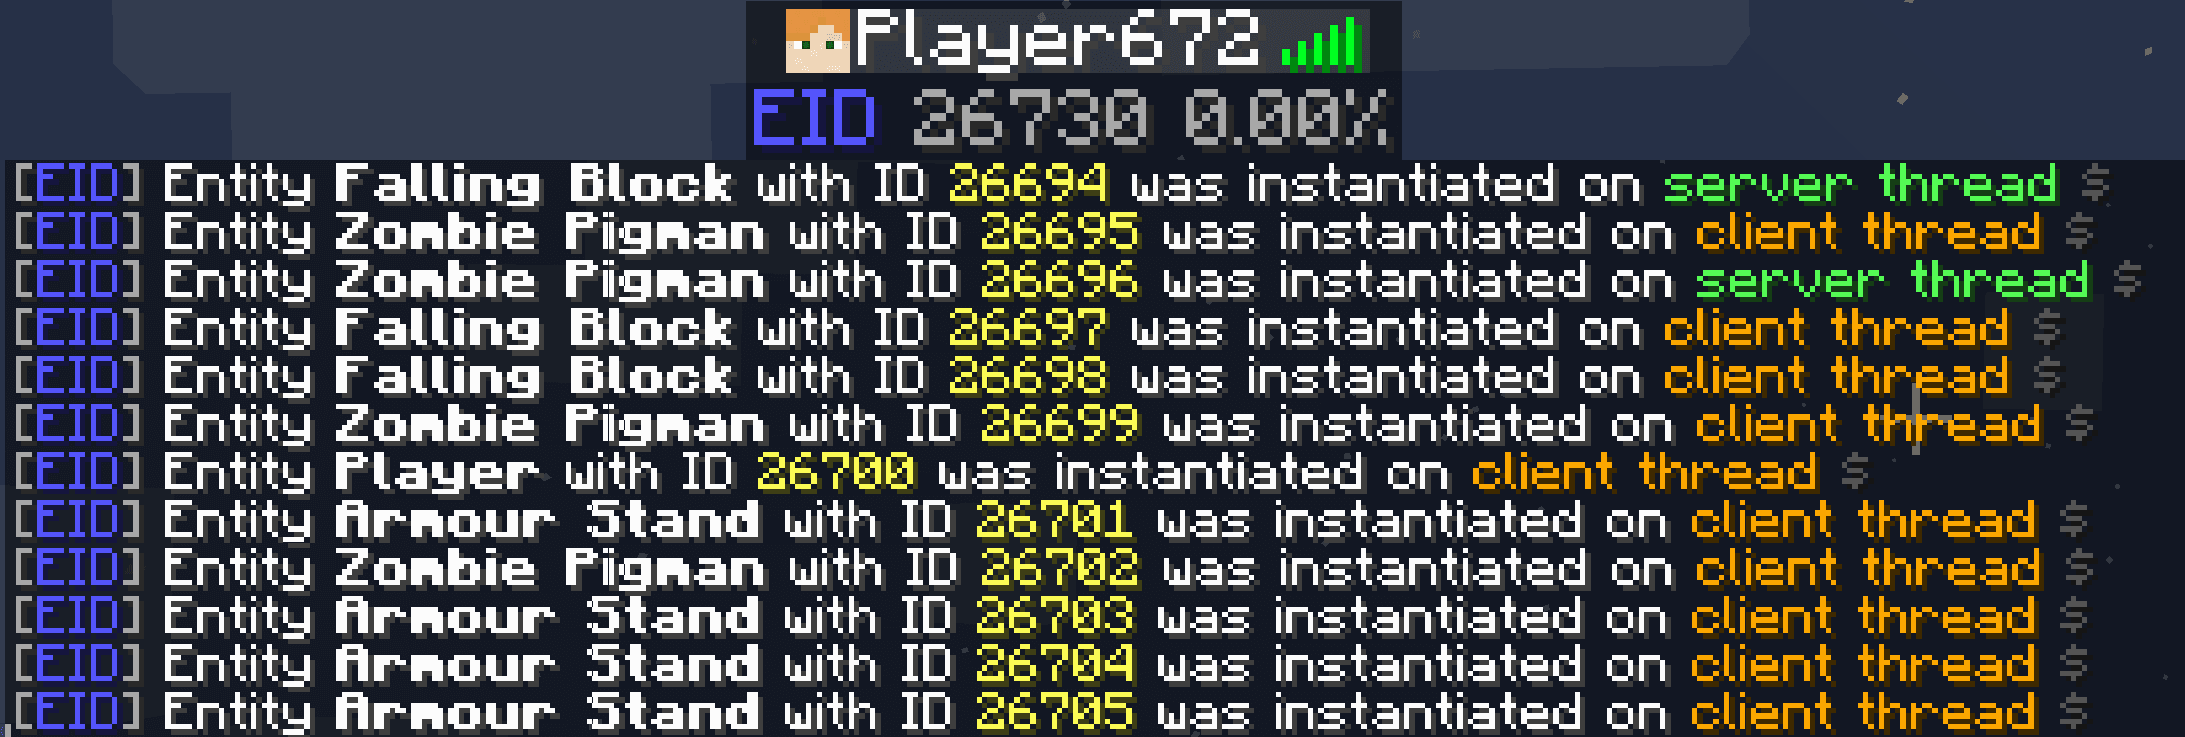
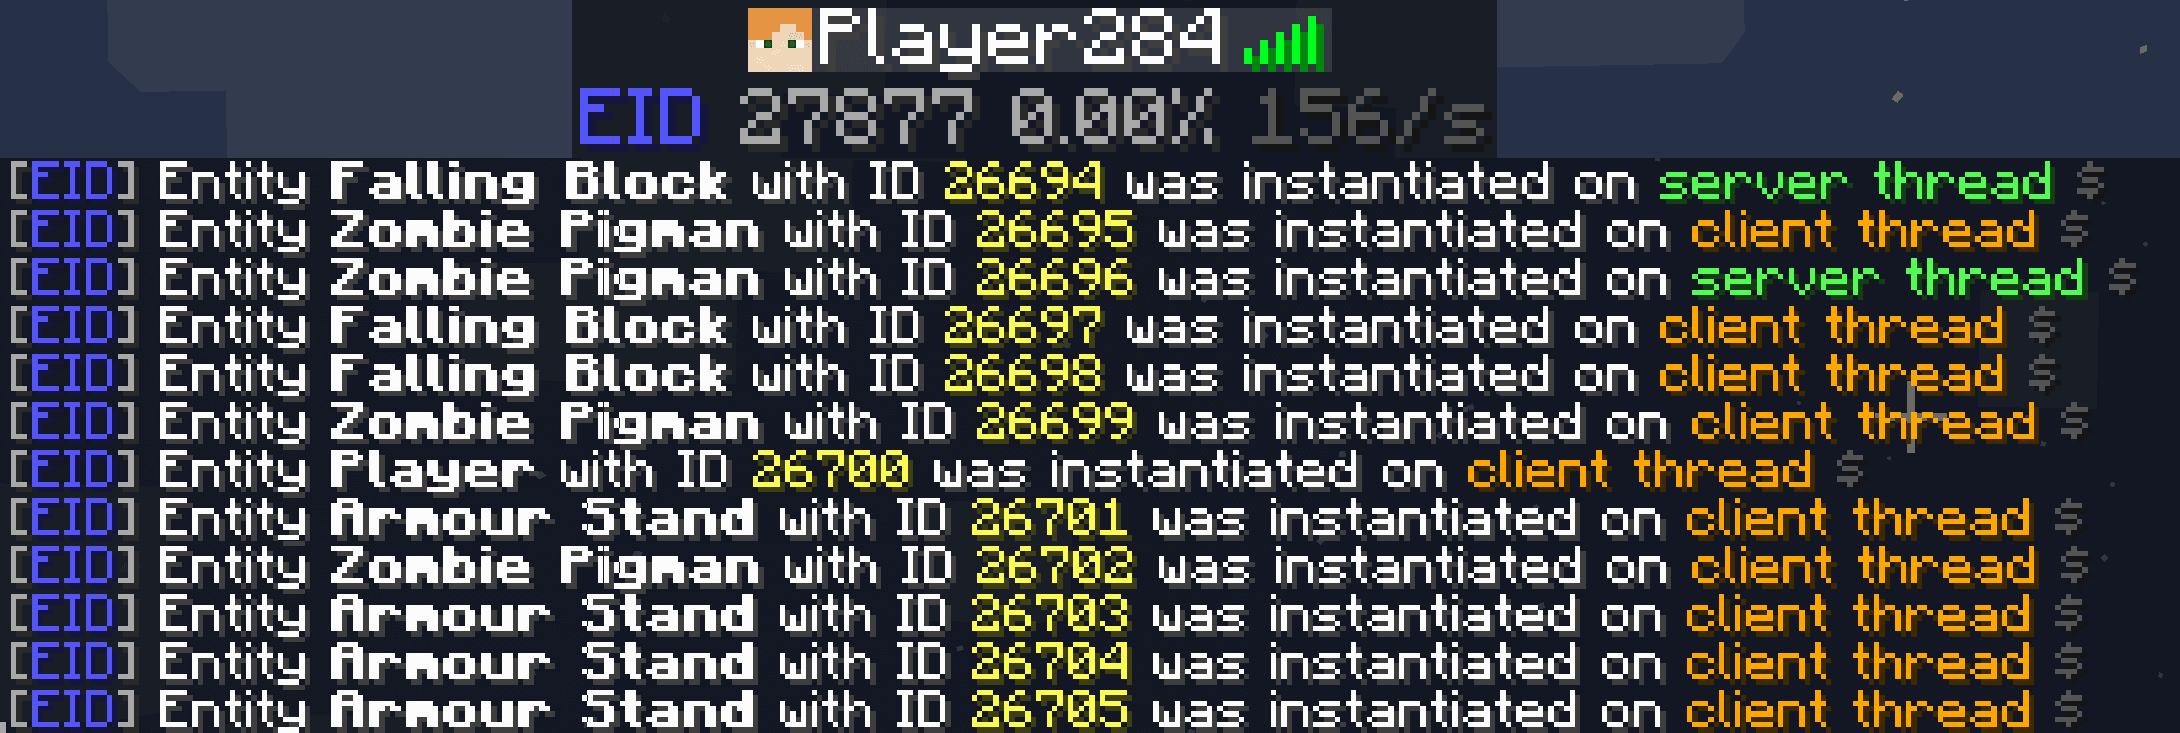
entityIdLogger show increment speed and add rule `entityIdCounterLoggerSamplingDuration`

Changed region(s): [[0.0, 0.0, 0.967, 1.0], [0.8422, 0.4202, 0.9046, 0.4802], [0.9358, 0.2101, 0.967, 0.2401]]

diff --git a/src/main/java/carpettisaddition/logging/loggers/entityIdCounter/EntityIdCounterHUDLogger.java b/src/main/java/carpettisaddition/logging/loggers/entityIdCounter/EntityIdCounterHUDLogger.java
@@ -23,7 +23,6 @@ package carpettisaddition.logging.loggers.entityIdCounter;
 import carpettisaddition.CarpetTISAdditionServer;
 import carpettisaddition.logging.TISAdditionLoggerRegistry;
 import carpettisaddition.logging.loggers.AbstractHUDLogger;
-import carpettisaddition.mixins.command.info.server.EntityAccessor;
 import carpettisaddition.utils.GameUtils;
 import carpettisaddition.utils.Messenger;
 import carpettisaddition.utils.TextUtils;
@@ -36,6 +35,7 @@ import net.minecraft.world.entity.Entity;
 import net.minecraft.world.entity.player.Player;
 
 import java.util.Arrays;
+import java.util.OptionalDouble;
 import java.util.concurrent.Executor;
 import java.util.concurrent.ForkJoinPool;
 import java.util.concurrent.ForkJoinWorkerThread;
@@ -49,6 +49,7 @@ public class EntityIdCounterHUDLogger extends AbstractHUDLogger
 	public static final String NAME = "entityIdCounter";
 
 	private static final EntityIdCounterHUDLogger INSTANCE = new EntityIdCounterHUDLogger();
+	private final EntityIdCounterSampler entityIdCounterSampler = new EntityIdCounterSampler();
 
 	private EntityIdCounterHUDLogger()
 	{
@@ -80,18 +81,40 @@ public class EntityIdCounterHUDLogger extends AbstractHUDLogger
 			return null;
 		}
 
-		int value = EntityAccessor.getEntityIdCounter$TISCM().get();
+		int value = EntityIdCounterUtils.getCurrentEntityIdCounterValue();
 		double overflowTo0Percent = EntityIdCounterUtils.getPercentOfOverflowToZero(value);
 		ChatFormatting percentColor = overflowTo0Percent > 99.99 ? ChatFormatting.RED : (overflowTo0Percent > 99.9 ? ChatFormatting.YELLOW : ChatFormatting.GRAY);
+
+		BaseComponent incrementSpeed = Messenger.s("-", ChatFormatting.DARK_GRAY);
+		OptionalDouble ratePerGtOpt = this.entityIdCounterSampler.getRatePerGt();
+		if (ratePerGtOpt.isPresent())
+		{
+			double speedPerSec = ratePerGtOpt.getAsDouble() * 20;
+			double hours = (1L << 32) / (speedPerSec * 3600);  // hours to overflow a complete 2^32
+			incrementSpeed = Messenger.s(
+					speedPerSec < 10 ? String.format("%.1f/s", speedPerSec) : String.format("%.0f/s", speedPerSec),
+					hours < 24 ? ChatFormatting.GOLD :
+							hours < 24 * 7 ? ChatFormatting.WHITE :
+							hours < 24 * 30 ? ChatFormatting.GRAY :
+							ChatFormatting.DARK_GRAY
+			);
+		}
 
 		return new BaseComponent[]{
 				Messenger.join(
 						Messenger.s(" "),
 						Messenger.s("EID", ChatFormatting.BLUE),
 						Messenger.s(value, ChatFormatting.GRAY),
-						Messenger.s(String.format("%.2f%%", overflowTo0Percent), percentColor)
+						Messenger.s(String.format("%.2f%%", overflowTo0Percent), percentColor),
+						incrementSpeed
 				)
 		};
+	}
+
+	public void tick()
+	{
+		int value = EntityIdCounterUtils.getCurrentEntityIdCounterValue();
+		this.entityIdCounterSampler.recordForOneTick(value);
 	}
 
 	private BaseComponent pack(BaseComponent message)

diff --git a/src/main/java/carpettisaddition/logging/loggers/entityIdCounter/EntityIdCounterSampler.java b/src/main/java/carpettisaddition/logging/loggers/entityIdCounter/EntityIdCounterSampler.java
@@ -1,0 +1,70 @@
+/*
+ * This file is part of the Carpet TIS Addition project, licensed under the
+ * GNU Lesser General Public License v3.0
+ *
+ * Copyright (C) 2026  Fallen_Breath and contributors
+ *
+ * Carpet TIS Addition is free software: you can redistribute it and/or modify
+ * it under the terms of the GNU Lesser General Public License as published by
+ * the Free Software Foundation, either version 3 of the License, or
+ * (at your option) any later version.
+ *
+ * Carpet TIS Addition is distributed in the hope that it will be useful,
+ * but WITHOUT ANY WARRANTY; without even the implied warranty of
+ * MERCHANTABILITY or FITNESS FOR A PARTICULAR PURPOSE.  See the
+ * GNU Lesser General Public License for more details.
+ *
+ * You should have received a copy of the GNU Lesser General Public License
+ * along with Carpet TIS Addition.  If not, see <https://www.gnu.org/licenses/>.
+ */
+
+package carpettisaddition.logging.loggers.entityIdCounter;
+
+import carpettisaddition.CarpetTISAdditionSettings;
+import com.google.common.collect.Queues;
+
+import java.util.Deque;
+import java.util.OptionalDouble;
+
+public class EntityIdCounterSampler
+{
+	private final Deque<Long> window = Queues.newArrayDeque();
+	private long windowSum;
+
+	private Integer lastValue = null;
+
+	public void recordForOneTick(int value)
+	{
+		long thisDelta = 0;
+		if (this.lastValue != null)
+		{
+			if (value >= this.lastValue)
+			{
+				thisDelta = value - this.lastValue;
+			}
+			else
+			{
+				thisDelta = ((long)value - (long)Integer.MIN_VALUE) + ((long)Integer.MAX_VALUE - this.lastValue) + 1;
+			}
+		}
+		this.lastValue = value;
+
+		this.addToWindow(thisDelta);
+	}
+
+	private void addToWindow(long item)
+	{
+		this.windowSum += item;
+		this.window.addLast(item);
+
+		if (this.window.size() > CarpetTISAdditionSettings.entityIdCounterLoggerSamplingDuration)
+		{
+			this.windowSum -= this.window.removeFirst();
+		}
+	}
+
+	public OptionalDouble getRatePerGt()
+	{
+		return this.window.isEmpty() ? OptionalDouble.empty() : OptionalDouble.of(1.0 * this.windowSum / this.window.size());
+	}
+}

diff --git a/src/main/java/carpettisaddition/CarpetTISAdditionServer.java b/src/main/java/carpettisaddition/CarpetTISAdditionServer.java
@@ -40,6 +40,7 @@ import carpettisaddition.helpers.rule.instantBlockUpdaterReintroduced.InstantBlo
 import carpettisaddition.helpers.rule.lightEngineMaxBatchSize.LightBatchSizeChanger;
 import carpettisaddition.helpers.rule.yeetUpdateSuppressionCrash.UpdateSuppressionYeeter;
 import carpettisaddition.logging.TISAdditionLoggerRegistry;
+import carpettisaddition.logging.loggers.entityIdCounter.EntityIdCounterHUDLogger;
 import carpettisaddition.logging.loggers.lightqueue.LightQueueHUDLogger;
 import carpettisaddition.logging.loggers.microtiming.MicroTimingLoggerManager;
 import carpettisaddition.logging.loggers.microtiming.marker.MicroTimingMarkerManager;
@@ -165,6 +166,7 @@ public class CarpetTISAdditionServer implements CarpetExtension
 	@Override
 	public void onTick(MinecraftServer server)
 	{
+		EntityIdCounterHUDLogger.getInstance().tick();
 		LightQueueHUDLogger.getInstance().tick();
 		MicroTimingMarkerManager.getInstance().tick();
 		PhantomLogger.getInstance().tick();

diff --git a/src/main/java/carpettisaddition/CarpetTISAdditionSettings.java b/src/main/java/carpettisaddition/CarpetTISAdditionSettings.java
@@ -215,6 +215,14 @@ public class CarpetTISAdditionSettings
 	//$$ public static boolean entityChunkSectionIndexXOverflowFix = false;
 	//#endif
 
+	@Rule(
+			validators = Validators.PositiveNumber.class,
+			options = {"20", "60", "100", "300", "1200"},
+			strict = false,
+			categories = {TIS}
+	)
+	public static int entityIdCounterLoggerSamplingDuration = 100;
+
 	@Rule(categories = {TIS, CREATIVE})
 	public static boolean entityInstantDeathRemoval = false;
 

diff --git a/src/main/java/carpettisaddition/logging/loggers/entityIdCounter/EntityIdCounterUtils.java b/src/main/java/carpettisaddition/logging/loggers/entityIdCounter/EntityIdCounterUtils.java
@@ -20,8 +20,15 @@
 
 package carpettisaddition.logging.loggers.entityIdCounter;
 
+import carpettisaddition.mixins.command.info.server.EntityAccessor;
+
 public class EntityIdCounterUtils
 {
+	public static int getCurrentEntityIdCounterValue()
+	{
+		return EntityAccessor.getEntityIdCounter$TISCM().get();
+	}
+
 	public static double getPercentOfOverflowToZero(int value)
 	{
 		long distanceUntil0 = value > 0 ? ((1L << 32) - value) : -1L * value;

diff --git a/website/i18n/zh-Hans/docusaurus-plugin-content-docs/current/loggers.md b/website/i18n/zh-Hans/docusaurus-plugin-content-docs/current/loggers.md
@@ -85,12 +85,16 @@ sidebar_position: 2
 
 可用的类型选项:
 - `all`: 输出下述所有
-- `hud`: (HUD 记录器) 于 tab 栏中显示服务端的实体 ID 计数器的取值，及其溢出回 0 的进度百分比。注：实体 ID 计数器的值等于上一个被创建的实体的 ID
+- `hud`: (HUD 记录器) 于 tab 栏中显示服务端的实体 ID 计数器的取值、其溢出回 0 的进度百分比，以及计数器增长速度
+  - 格式：`EID <当前值> <百分比>% <增长速度>/s`
+  - 注：实体 ID 计数器的值等于上一个被创建的实体的 ID
 - `increment`: 在一个 `Entity` 对象被实例化而增加了实体 ID 计数器时，输出信息
 
 属性:
 - 默认选项: `hud`
 - 参考选项: `hud`, `increment`, `all`
+
+计算增长速度的采样窗口长度可通过规则 [entityIdCounterLoggerSamplingDuration](rules.md#实体id计数器记录器采样时长-entityidcounterloggersamplingduration) 指定，默认值为 100gt（5s）
 
 ![entityIdCounter](images/logger/entityIdCounter.png)
 

diff --git a/website/docs/loggers.md b/website/docs/loggers.md
@@ -85,12 +85,16 @@ Attributes:
 
 Available options:
 - `all`: Log everything below
-- `hud`: (HUD logger) Display the current value of the entity ID counter and the percentage of overflowing back to 0. Notes: the value of the counter equals to the latest created entity's ID
+- `hud`: (HUD logger) Display the current value of the entity ID counter, the percentage of overflowing back to 0, and the increment speed per second
+  - Format: `EID <current value> <percentage>% <increment speed>/s`
+  - Notes: the value of the counter equals to the latest created entity's ID
 - `increment`: Log when an `Entity` object gets instantiated and increases the entity ID counter
 
 Attributes:
 - Default option: `hud`
 - Suggested options: `hud`, `increment`, `all`
+
+The sampling window length for calculating the increment speed can be specified with rule [entityIdCounterLoggerSamplingDuration](rules.md#entityidcounterloggersamplingduration), default 100gt (5s)
 
 ![entityIdCounter](images/logger/entityIdCounter.png)
 

diff --git a/website/docs/rules.md b/website/docs/rules.md
@@ -456,6 +456,16 @@ This rule only exists in Minecraft >= 1.17, since the bug was introduced in 1.17
 - Categories: `TIS`, `BUGFIX`
 
 
+## entityIdCounterLoggerSamplingDuration
+
+The sampling window length for calculating the entity ID counter increment speed, in game tick
+
+- Type: `int`
+- Default value: `100`
+- Suggested options: `20`, `60`, `100`, `300`, `1200`
+- Categories: `TIS`
+
+
 ## entityInstantDeathRemoval
 
 Remove the 20gt delay before living entity removal after death

diff --git a/website/i18n/zh-Hans/docusaurus-plugin-content-docs/current/rules.md b/website/i18n/zh-Hans/docusaurus-plugin-content-docs/current/rules.md
@@ -456,6 +456,16 @@ sidebar_position: 1
 - 分类: `TIS`, `BUGFIX`
 
 
+## 实体ID计数器记录器采样时长 (entityIdCounterLoggerSamplingDuration)
+
+用于计算实体 ID 计数器增长速度的采样窗口长度，单位为游戏刻
+
+- 类型: `int`
+- 默认值: `100`
+- 参考选项: `20`, `60`, `100`, `300`, `1200`
+- 分类: `TIS`
+
+
 ## 生物死亡立即移除 (entityInstantDeathRemoval)
 
 移除生物实体死亡前的 20gt 等待时间
